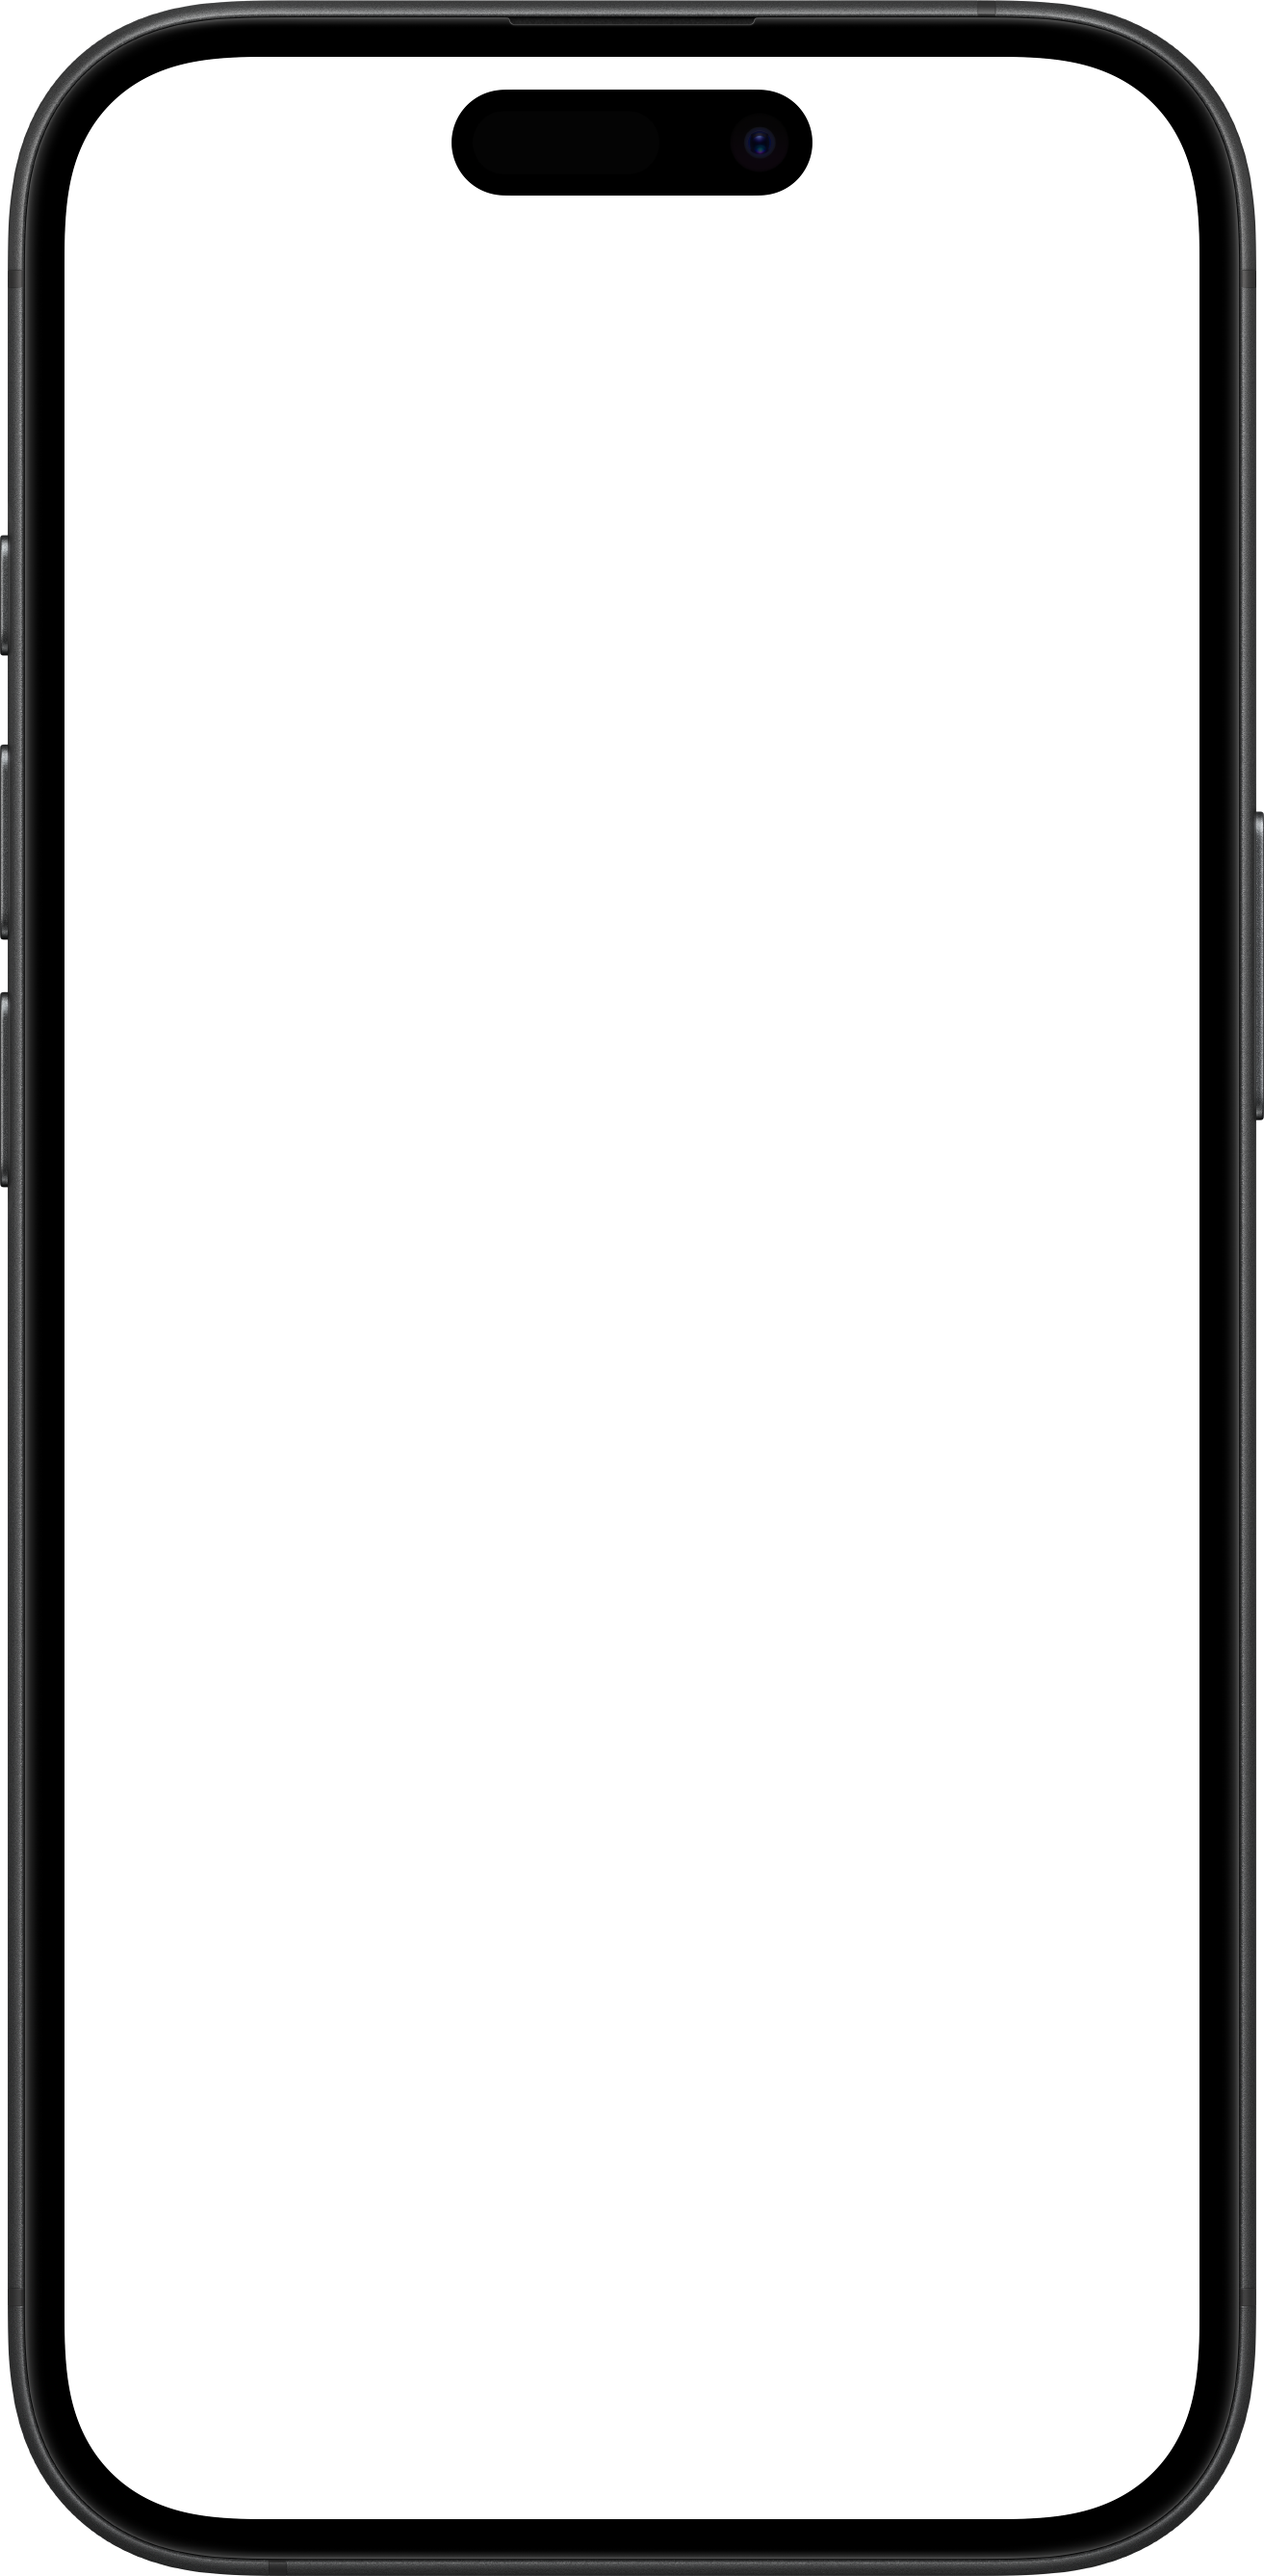
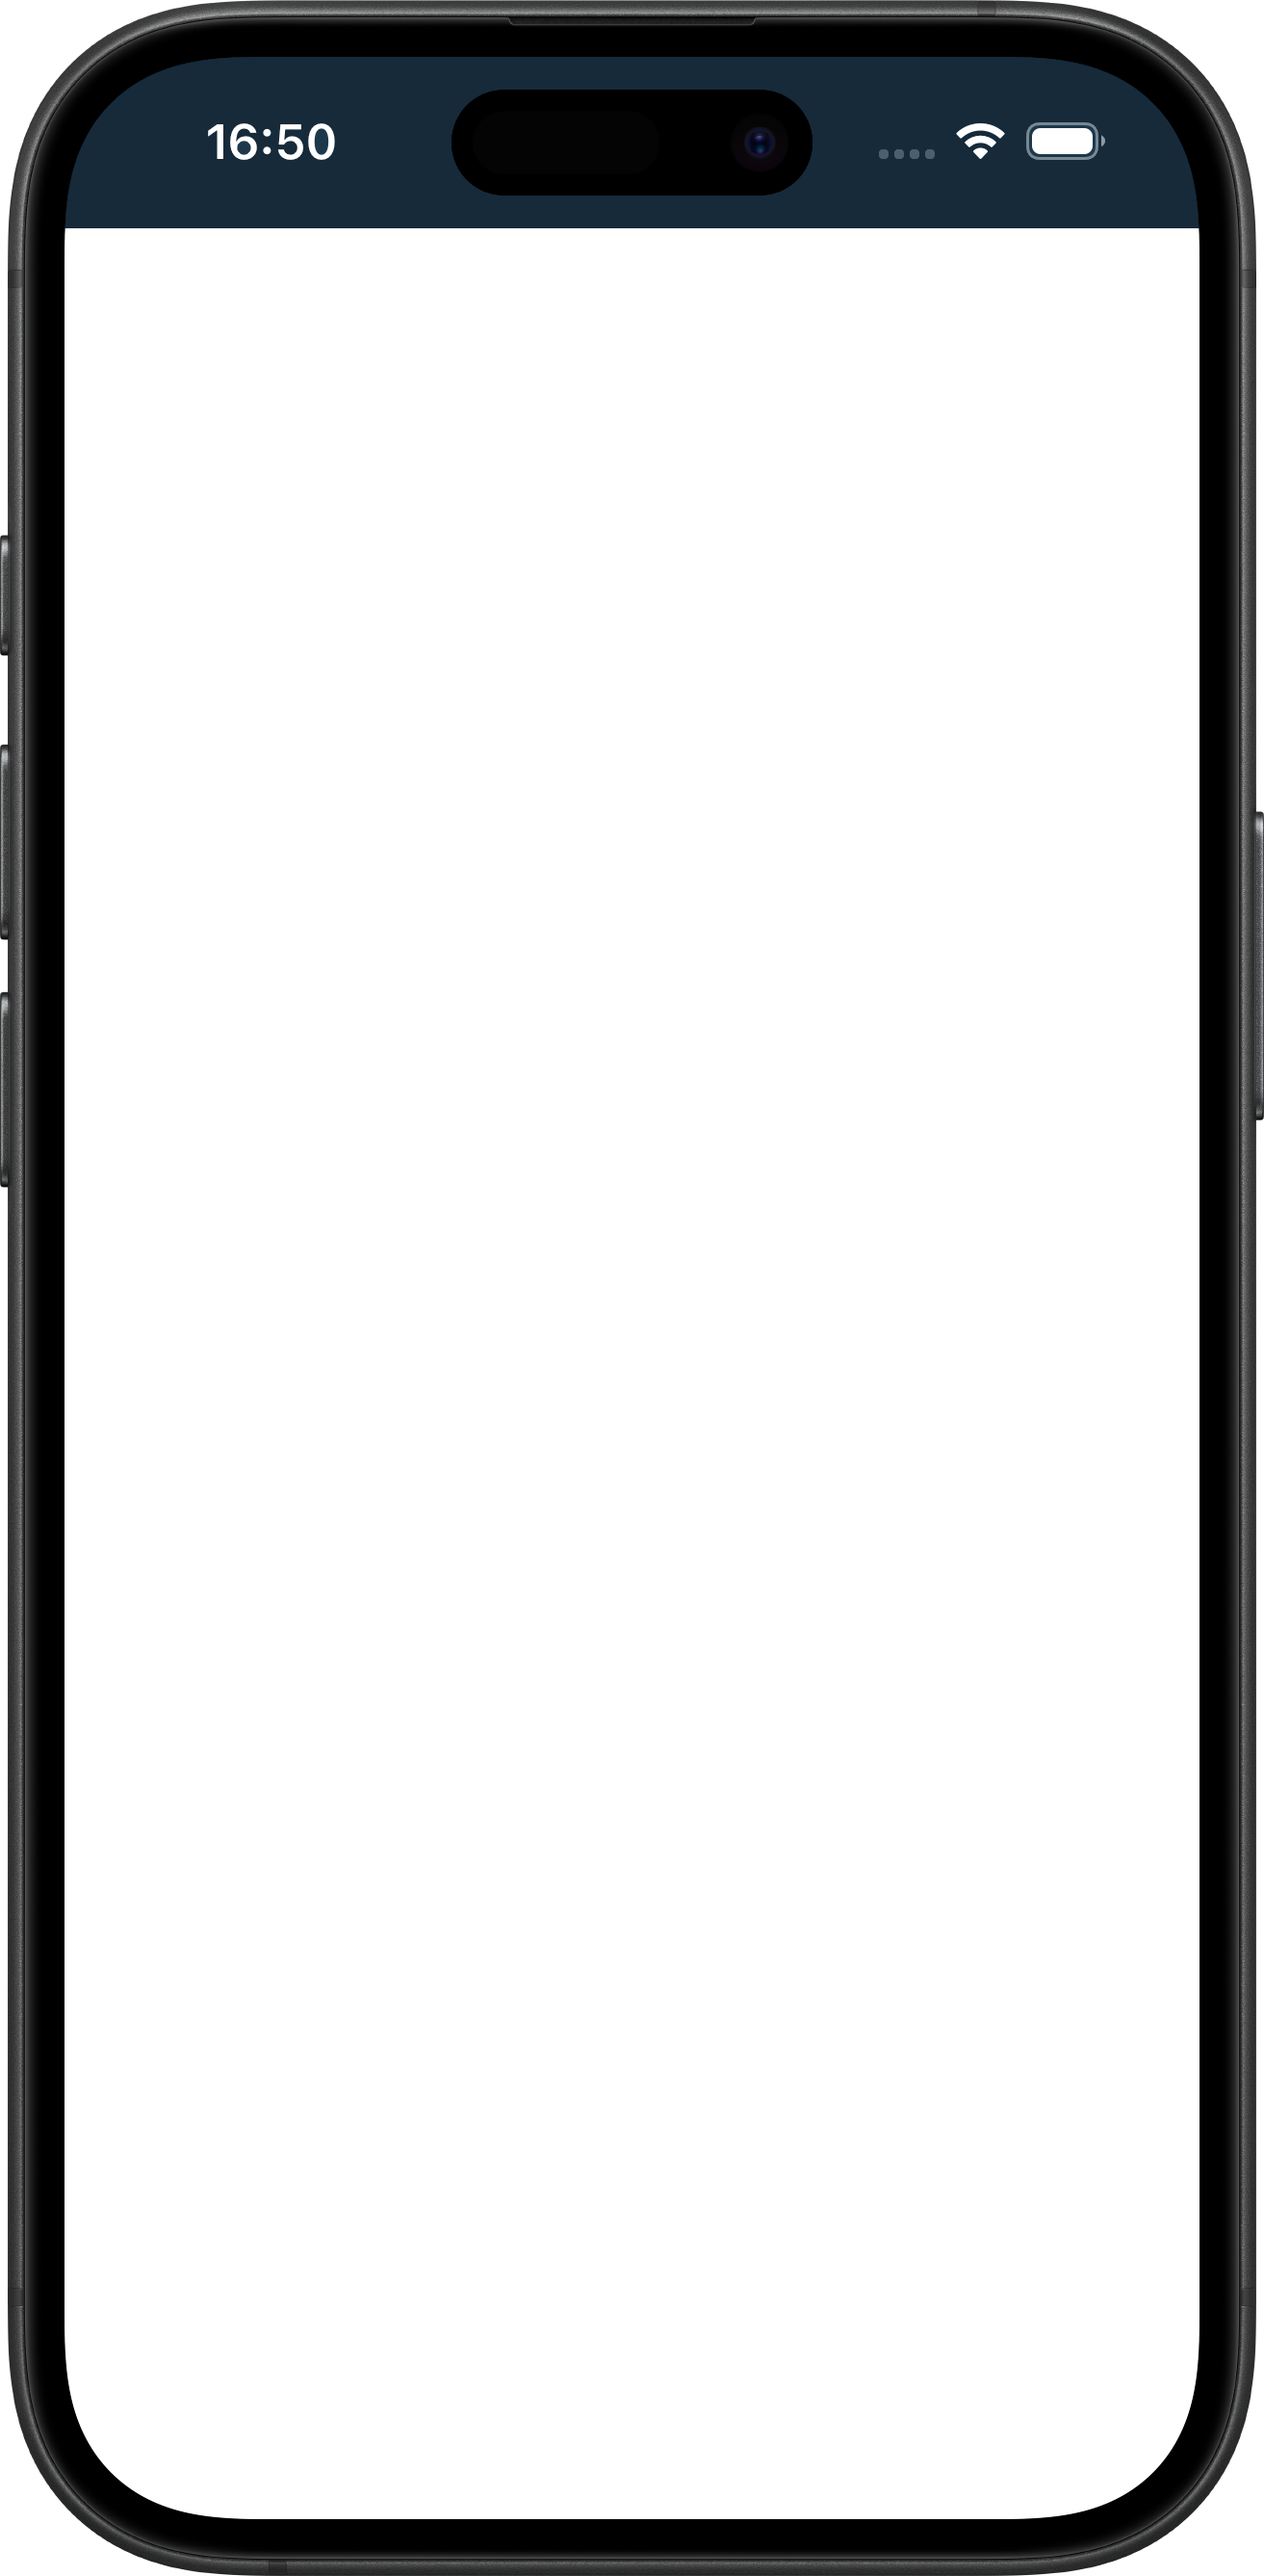
Proof-of-concept carousel.

Changed region(s): [[0.0312, 0.0, 0.968, 0.0931]]

diff --git a/layouts/index.html b/layouts/index.html
@@ -16,11 +16,26 @@
           <a href="#" class="btn btn-secondary flex-fill">What do I need to provide?</a>
         </div>
         <p class="mt-3">Any other questions? Ready to get started?</p>
-        <a href="#" class="btn btn-lg btn-primary">Contact Us</a>
+        <a href="#" class="btn btn-lg btn-primary mb-4">Contact Us</a>
       </div>
     </div>
     <div class="col-md-4">
-      <img src="iphone16.png" class="img-fluid"/>
+      <div class="position-relative">
+        <img src="iphone16.png" class="img-fluid position-relative" style="z-index: 6;"/>
+        <div class="carousel slide carousel-fade position-absolute top-0 w-100 h-100 p-2" data-bs-ride="carousel">
+          <div class="carousel-inner h-100 text-center" style="border-radius: 12%">
+            <div class="carousel-item active bg-info h-100" style="padding-top: 20%">
+              Slide 1
+            </div>
+            <div class="carousel-item bg-success h-100" style="padding-top: 20%">
+              Slide 2
+            </div>
+            <div class="carousel-item bg-warning h-100" style="padding-top: 20%">
+              Slide 3
+            </div>
+          </div>
+        </div>
+      </div>
     </div>
   </div>
 {{ end }}
